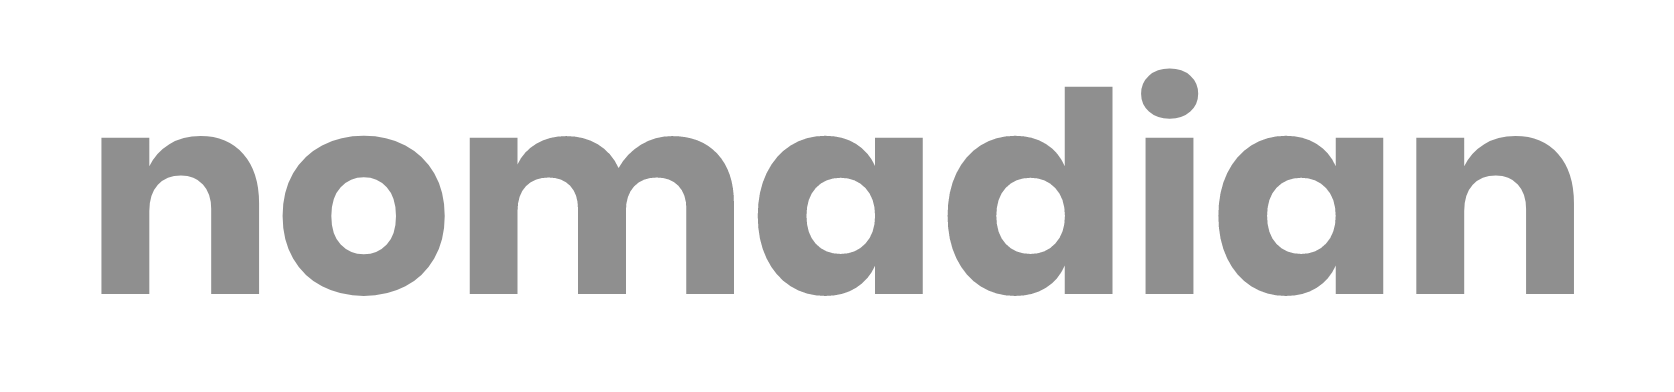
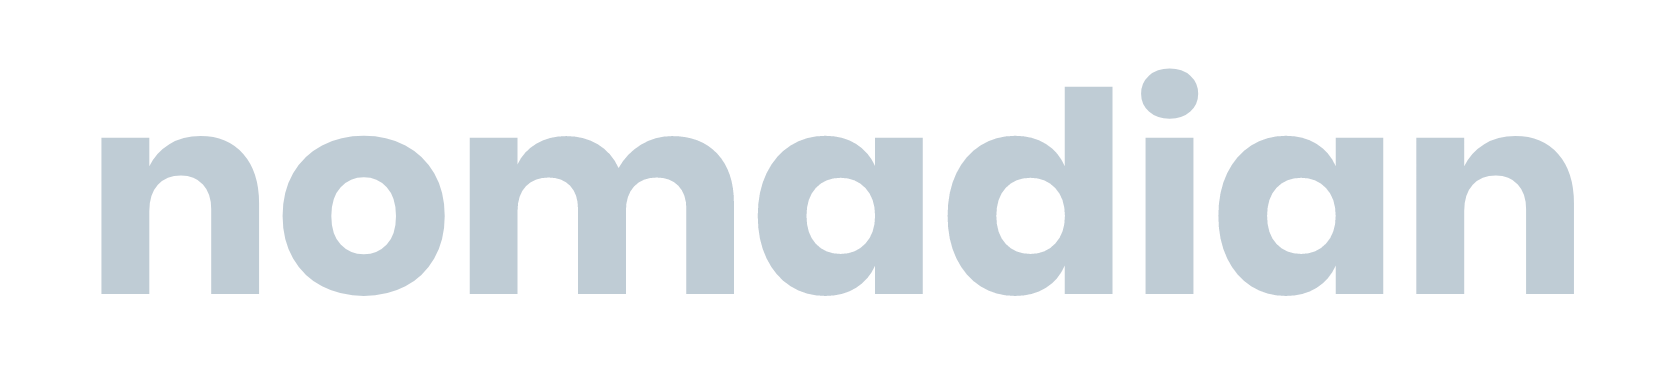
Red to Blue

Changed region(s): [[0.0621, 0.1531, 0.963, 0.7653]]

diff --git a/src/static/styles/layout/_layout.scss b/src/static/styles/layout/_layout.scss
@@ -2,7 +2,7 @@
     background: unset;
     .dark-navbar{
         @include sub-section-container;
-        background-color: $dark-black;
+        background-color: $dark-blue;
         transition: background-color 0.4s ease-out;
         position: fixed;
         padding-top: 0;
@@ -14,6 +14,8 @@
         .logo-container{
             .logo{
                 width: 50px;
+                height: 50px;
+
             }
         }
         .nav-menu{
@@ -47,7 +49,8 @@
         transition: background-color 0.4s ease-out;
         .nav-menu{
             .ant-menu-item.ant-menu-item-only-child.ant-menu-item-selected{
-                color: $primary-red;
+                color: $dark-blue;
+                font-weight: 600;
             }
             .ant-menu-item.ant-menu-item-only-child{
                 color: $primary-black;

diff --git a/src/layout/Container.js b/src/layout/Container.js
@@ -36,7 +36,7 @@ export default function Container(props) {
         <Menu.Item key="1">Home</Menu.Item>
         <Menu.Item key="2">About Us</Menu.Item>
         <Menu.Item key="3">Our Work</Menu.Item>
-        <Menu.Item key="4" style={{backgroundColor: 'transparent'}}><Button className="contribute-button"><img src={people} alt="People Icon" /> Contribute</Button></Menu.Item>
+        <Menu.Item key="4" style={{backgroundColor: 'transparent'}}><Button style={dark?{backgroundColor: '#030127', border: '1px solid #030127'}:{fontWeight: 600}} className="contribute-button"><img src={people} alt="People Icon" /> Contact</Button></Menu.Item>
       </Menu>
     </Header>
     <Content>

diff --git a/src/static/styles/pages/home/_header.scss b/src/static/styles/pages/home/_header.scss
@@ -68,7 +68,7 @@
     padding-top: 24px;
     padding-bottom: 0;
     @include md {
-      background-color: $primary-red;
+      background-color: $light-blue;
       padding-top: 0;
       display: block;
       margin: unset;
@@ -114,7 +114,7 @@
         letter-spacing: 8px;
       }
       .dark-background{
-        background: #161616;
+        background: $dark-blue;
         height: inherit;
       }
     }

diff --git a/src/static/styles/utilities/_mixins.scss b/src/static/styles/utilities/_mixins.scss
@@ -71,11 +71,11 @@
 @mixin primary-button {
     color: white;
     font-family: "Muli", "Poppins", serif, sans-serif;
-    background-color: $primary-red;
+    background-color: $light-blue;
     padding: 4px 6px;
     text-transform: capitalize;
     border-radius: 2px;
-    border: 1px solid $primary-red;
+    border: 1px solid $light-blue;
     font-size: 13px;
     @include md{
         font-size: 14px;

diff --git a/src/static/styles/utilities/_colors.scss b/src/static/styles/utilities/_colors.scss
@@ -1,6 +1,8 @@
 $primary-black:#252525;
 $dark-black:#161616;
+$dark-blue: #030127;
 $ligh-black:#202020;
+$light-blue: #00A8E8;
 $primary-grey:#f0f0f0;
 $text-grey: #94AAB2;
 $primary-red: #FF1E26;

diff --git a/src/static/styles/base/_base.scss b/src/static/styles/base/_base.scss
@@ -1,6 +1,6 @@
 html, body{
     font-family: $main-font;
-    background-color: $dark-black;
+    background-color: $dark-blue;
     color: white;
     box-sizing: border-box;
 }
